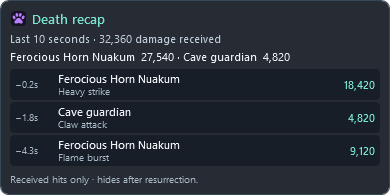
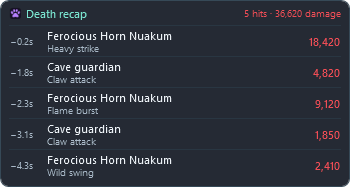
Compact death recap to five hits with red damage and upper-center placement

diff --git a/src/AionMeter.App/Windows/DeathRecapWindow.xaml b/src/AionMeter.App/Windows/DeathRecapWindow.xaml
@@ -1,24 +1,24 @@
 <Window x:Class="AionMeter.App.Windows.DeathRecapWindow" xmlns="http://schemas.microsoft.com/winfx/2006/xaml/presentation" xmlns:x="http://schemas.microsoft.com/winfx/2006/xaml"
-        Width="390" MinWidth="260" SizeToContent="Height" MaxHeight="420" WindowStyle="None" ResizeMode="CanResizeWithGrip" ShowInTaskbar="False" ShowActivated="False" Topmost="True"
+        Width="350" MinWidth="260" SizeToContent="Height" WindowStyle="None" ResizeMode="NoResize" ShowInTaskbar="False" ShowActivated="False" Topmost="True"
         Background="Transparent" Foreground="#EDF2F7" FontFamily="{StaticResource UiFont}" UseLayoutRounding="True" TextOptions.TextFormattingMode="Display">
     <Window.Resources><ResourceDictionary><ResourceDictionary.MergedDictionaries><ResourceDictionary Source="../Theme/MeterTools.xaml"/></ResourceDictionary.MergedDictionaries></ResourceDictionary></Window.Resources>
-    <Border x:Name="Shell" Background="#F01B2027" BorderBrush="#364957" BorderThickness="1" CornerRadius="8" Padding="9">
+    <Border x:Name="Shell" Background="#F0171E27" BorderBrush="#364957" BorderThickness="1" CornerRadius="8" Padding="8,6">
         <StackPanel>
-            <DockPanel Margin="0,0,0,5"><Image x:Name="Paw" Width="16" Height="16" Margin="0,0,6,0"/><TextBlock x:Name="Heading" Foreground="#79E3CF" FontWeight="SemiBold" FontSize="13"/></DockPanel>
-            <TextBlock x:Name="Summary" Foreground="#BCC9D6" FontSize="11" TextWrapping="Wrap" Margin="0,0,0,5"/>
-            <TextBlock x:Name="Sources" Foreground="#EDF2F7" FontSize="11" MaxHeight="42" TextWrapping="Wrap" TextTrimming="CharacterEllipsis" Margin="0,0,0,5" ToolTip="{Binding Text, RelativeSource={RelativeSource Self}}"/>
-            <ScrollViewer MaxHeight="220" VerticalScrollBarVisibility="Auto" HorizontalScrollBarVisibility="Disabled" Focusable="False">
+            <Grid Margin="0,0,0,5">
+                <Grid.ColumnDefinitions><ColumnDefinition Width="Auto"/><ColumnDefinition Width="*"/></Grid.ColumnDefinitions>
+                <StackPanel Orientation="Horizontal"><Image x:Name="Paw" Width="12" Height="12" Margin="0,0,5,0"/><TextBlock x:Name="Heading" Foreground="#79E3CF" FontWeight="SemiBold" FontSize="11"/></StackPanel>
+                <TextBlock x:Name="Summary" Grid.Column="1" Foreground="{StaticResource Red}" FontSize="10" VerticalAlignment="Center" TextAlignment="Right" TextTrimming="CharacterEllipsis" ToolTip="{Binding Text, RelativeSource={RelativeSource Self}}" Margin="8,0,0,0"/>
+            </Grid>
                 <ItemsControl x:Name="Hits"><ItemsControl.ItemTemplate><DataTemplate>
-                    <Border Background="#171E27" CornerRadius="4" Padding="5,3" Margin="0,1">
-                        <Grid><Grid.ColumnDefinitions><ColumnDefinition Width="40"/><ColumnDefinition Width="*"/><ColumnDefinition Width="Auto"/></Grid.ColumnDefinitions>
-                            <TextBlock Text="{Binding Time}" Foreground="#A9B8C7" FontSize="10" VerticalAlignment="Center"/>
-                            <StackPanel Grid.Column="1" Margin="3,0,6,0"><TextBlock Text="{Binding Enemy}" FontSize="11" FontWeight="SemiBold" TextTrimming="CharacterEllipsis" ToolTip="{Binding Enemy}"/><TextBlock Text="{Binding Skill}" Foreground="#A9B8C7" FontSize="10" TextTrimming="CharacterEllipsis" ToolTip="{Binding Skill}"/></StackPanel>
-                            <TextBlock Grid.Column="2" Text="{Binding Damage}" Foreground="#79E3CF" FontWeight="SemiBold" FontSize="11" VerticalAlignment="Center" ToolTip="{Binding Details}"/>
+                    <Border BorderBrush="#293642" BorderThickness="0,1,0,0" Padding="1,3,1,2">
+                        <Grid><Grid.ColumnDefinitions><ColumnDefinition Width="34"/><ColumnDefinition Width="*"/><ColumnDefinition Width="Auto"/></Grid.ColumnDefinitions>
+                            <TextBlock Text="{Binding Time}" Foreground="#A9B8C7" FontSize="9.5" VerticalAlignment="Center"/>
+                            <StackPanel Grid.Column="1" Margin="3,0,8,0"><TextBlock Text="{Binding Enemy}" FontSize="11" TextTrimming="CharacterEllipsis" ToolTip="{Binding Enemy}"/><TextBlock Text="{Binding Skill}" Foreground="#A9B8C7" FontSize="10" TextTrimming="CharacterEllipsis" ToolTip="{Binding Skill}"/></StackPanel>
+                            <TextBlock Grid.Column="2" Text="{Binding Damage}" Foreground="{StaticResource Red}" FontWeight="SemiBold" FontSize="11" VerticalAlignment="Center" ToolTip="{Binding Details}"/>
                         </Grid>
                     </Border>
                 </DataTemplate></ItemsControl.ItemTemplate></ItemsControl>
-            </ScrollViewer>
-            <TextBlock x:Name="Hint" FontSize="10" Foreground="#A9B8C7" TextWrapping="Wrap" Margin="0,6,0,0"/>
+            <TextBlock x:Name="Hint" FontSize="10" Foreground="#A9B8C7" TextWrapping="Wrap" Margin="0,4,0,0" Visibility="Collapsed"/>
         </StackPanel>
     </Border>
 </Window>

diff --git a/src/AionMeter.App/Windows/DeathRecapWindow.xaml.cs b/src/AionMeter.App/Windows/DeathRecapWindow.xaml.cs
@@ -1,5 +1,6 @@
 using System.Windows;
 using System.Windows.Media;
+using System.Windows.Interop;
 using AionMeter.App.Services;
 using AionMeter.Core.Combat;
 
@@ -8,6 +9,25 @@ namespace AionMeter.App.Windows;
 public partial class DeathRecapWindow : Window, IDisplayAppearance
 {
     internal sealed record HitRow(string Time, string Enemy, string Skill, string Damage, string Details);
+    internal const int VisibleHits = 5;
+    internal static Point DefaultPosition(Rect screen, Size panel) => new(
+        screen.Left + Math.Max(0,(screen.Width-panel.Width)/2),
+        Math.Clamp(screen.Top+screen.Height*.36-panel.Height,screen.Top+8,Math.Max(screen.Top+8,screen.Bottom-panel.Height-8)));
+
+    internal void PlaceAboveCenter(Window anchor)
+    {
+        var screen=System.Windows.Forms.Screen.FromHandle(new WindowInteropHelper(anchor).Handle);
+        WindowStartupLocation=WindowStartupLocation.Manual;
+        Left=anchor.Left; Top=anchor.Top;
+        Loaded+=(_,_)=>
+        {
+            UpdateLayout();
+            var matrix=PresentationSource.FromVisual(this)?.CompositionTarget?.TransformFromDevice ?? Matrix.Identity;
+            var area=new Rect(matrix.Transform(new Point(screen.Bounds.Left,screen.Bounds.Top)),matrix.Transform(new Point(screen.Bounds.Right,screen.Bounds.Bottom)));
+            var point=DefaultPosition(area,new Size(ActualWidth,ActualHeight));
+            Left=point.X; Top=point.Y;
+        };
+    }
     public DeathRecapWindow(DeathRecapSnapshot recap)
     {
         InitializeComponent(); AppIcon.Apply(this); Paw.Source = Icon;
@@ -18,19 +38,19 @@ public partial class DeathRecapWindow : Window, IDisplayAppearance
     {
         var t = UiText.Current;
         Title = "CatScratch · " + t.Localize("Death recap"); Heading.Text = t.Localize("Death recap");
+        Heading.ToolTip=t.Localize("Latest received hits · newest first · hides after resurrection.");
+        var hits=recap.Hits.OrderByDescending(h=>h.TimeMs).Take(VisibleHits).ToArray();
         string Enemy(DeathRecapHit h) => h.IsPlayer ? StreamNames.Name(h.SourceName) : h.SourceName;
-        Summary.Text = string.Format(t.Culture, t.Localize("Last {0} seconds · {1:N0} damage received"),
-            CombatTracker.DeathRecapSeconds, recap.Hits.Sum(h => (decimal)h.Damage));
-        Sources.Text = string.Join(" · ", recap.Hits.GroupBy(h => h.SourceId).OrderByDescending(g => g.Sum(h => (decimal)h.Damage))
-            .Select(g => Enemy(g.First()) + "  " + g.Sum(h => (decimal)h.Damage).ToString("N0", t.Culture)));
-        Hits.ItemsSource = recap.Hits.Select(h => new HitRow("−" + ((recap.DiedAtMs - h.TimeMs) / 1000d).ToString("0.0", t.Culture) + "s",
+        Summary.Text = string.Format(t.Culture, t.Localize("{0} hits · {1:N0} damage"), hits.Length,hits.Sum(h=>(decimal)h.Damage));
+        Hits.ItemsSource = hits.Select(h => new HitRow("−" + ((recap.DiedAtMs - h.TimeMs) / 1000d).ToString("0.0", t.Culture) + "s",
             Enemy(h), h.SkillName, h.Damage.ToString("N0", t.Culture), h.HitCount > 1 ? "×" + h.HitCount : h.Damage.ToString("N0", t.Culture))).ToArray();
-        Hint.Text = t.Localize(recap.Hits.Count == 0 ? "No incoming damage received before this death." :
-            recap.Truncated ? "High traffic: some hits are missing." : "Received hits only · hides after resurrection.");
+        Hint.Text = t.Localize(hits.Length == 0 ? "No incoming damage received before this death." : "High traffic: some hits are missing.");
+        Hint.Visibility=hits.Length==0 || recap.Truncated ? Visibility.Visible : Visibility.Collapsed;
     }
     public void SetDisplayOnly(bool enabled)
     {
-        Shell.Background = enabled ? Brushes.Transparent : (Brush)new BrushConverter().ConvertFromString("#F01B2027")!;
+        // Keep text readable over the game even when the module passes mouse clicks through.
+        Shell.Background = (Brush)new BrushConverter().ConvertFromString("#F0171E27")!;
         Shell.BorderThickness = new(enabled ? 0 : 1);
     }
 }

diff --git a/src/AionMeter.App/Services/Beta4Checks.cs b/src/AionMeter.App/Services/Beta4Checks.cs
@@ -75,15 +75,29 @@ internal static class Beta4Checks
             foreach (var code in new[] { "en", "de", "ru", "fr" })
             {
                 UiText.Use(code); StreamNames.Enabled = true;
-                var recap = new DeathRecapWindow(new(5000, [new(4000, 2, "Private attacker", true, 1, "Attack", 12345, HitFlags.None, 1)], false));
+                var recap = new DeathRecapWindow(new(5000, Enumerable.Range(0,8).Select(i=>
+                    new DeathRecapHit(4900-i*200,(uint)i+2,"Private attacker "+i,true,1,"Attack",1000+i,HitFlags.None,1)).Reverse().ToArray(), false));
                 try
                 {
                     recap.UpdateLayout();
                     var rows = ((ItemsControl)recap.FindName("Hits")).Items.Cast<DeathRecapWindow.HitRow>().ToArray();
-                    Check(rows.Length == 1 && !rows[0].Enemy.Contains("Private") && ((TextBlock)recap.FindName("Summary")).Text.Contains("10"), "Death recap shows ten-second details with stream aliases: " + code);
-                    Check(!((TextBlock)recap.FindName("Sources")).Text.Contains("Private"), "Attacker totals preserve stream aliases: " + code);
+                    Check(rows.Length == 5 && rows.All(r=>!r.Enemy.Contains("Private")) && rows[0].Damage==1000.ToString("N0",UiText.Current.Culture) && rows[^1].Damage==1004.ToString("N0",UiText.Current.Culture),
+                        "Death recap shows only the five latest hits in newest-first order with stream aliases: " + code);
+                    Check(((TextBlock)recap.FindName("Summary")).Text==string.Format(UiText.Current.Culture,UiText.Current.Localize("{0} hits · {1:N0} damage"),5,5010),
+                        "Death recap summary totals only its five displayed hits: " + code);
+                    Check(recap.ResizeMode==ResizeMode.NoResize && ((TextBlock)recap.FindName("Hint")).Visibility==Visibility.Collapsed,
+                        "Compact recap removes the resize grip and routine footer: " + code);
+                    recap.SetDisplayOnly(true);
+                    Check(((Border)recap.FindName("Shell")).Background is System.Windows.Media.SolidColorBrush brush && brush.Color.A>0,
+                        "Click-through recap keeps a readable dark surface: "+code);
                 }
                 finally { recap.Close(); }
+            }
+            foreach(var area in new[]{new Rect(0,0,1920,1080),new Rect(-1920,0,1920,1080),new Rect(1920,-1440,2560,1440),new Rect(0,0,1280,720)})
+            {
+                var position=DeathRecapWindow.DefaultPosition(area,new Size(350,180));
+                Check(Math.Abs(position.X+175-(area.Left+area.Width/2))<.1 && position.Y>=area.Top && position.Y+180<=area.Top+area.Height*.4,
+                    "Death recap defaults to upper center above resurrection controls on screen "+area);
             }
             var actual = meter.Updates.CurrentIdentity;
             // The real local executable is the offered payload; a synthetic older installed identity makes it an update.

diff --git a/src/AionMeter.App/Services/UiText.MoreLanguages.cs b/src/AionMeter.App/Services/UiText.MoreLanguages.cs
@@ -5,6 +5,8 @@ public sealed partial class UiText
     // Exact literals, not substitutions in player names, paths or protocol identifiers.
     private static readonly (string English,string Russian,string French)[] AdditionalTranslations =
     [
+        ("{0} hits · {1:N0} damage","Удары: {0} · Урон: {1:N0}","{0} coups · {1:N0} dégâts"),
+        ("Latest received hits · newest first · hides after resurrection.","Последние полученные удары · сначала новые · исчезает после воскрешения.","Derniers coups reçus · plus récent en premier · disparaît après résurrection."),
         ("Open captures folder","Открыть папку записей","Ouvrir le dossier des captures"),
         ("AION 2 companion","Вместе с AION 2","Compagnon AION 2"),
         ("Start and close CatScratch with AION 2","Запускать и закрывать CatScratch вместе с AION 2","Démarrer et fermer CatScratch avec AION 2"),

diff --git a/src/AionMeter.App/Services/SampleRenderer.cs b/src/AionMeter.App/Services/SampleRenderer.cs
@@ -185,7 +185,10 @@ public static class SampleRenderer
                 var recap = new DeathRecapWindow(new(died, [
                     new(died - 150, 100, "Ferocious Horn Nuakum", false, 1, "Heavy strike", 18420, HitFlags.Critical, 1),
                     new(died - 1800, 101, "Cave guardian", false, 2, "Claw attack", 4820, HitFlags.None, 1),
-                    new(died - 4300, 100, "Ferocious Horn Nuakum", false, 3, "Flame burst", 9120, HitFlags.Dot, 3)
+                    new(died - 2300, 100, "Ferocious Horn Nuakum", false, 3, "Flame burst", 9120, HitFlags.Dot, 3),
+                    new(died - 3100, 101, "Cave guardian", false, 2, "Claw attack", 1850, HitFlags.None, 1),
+                    new(died - 4300, 100, "Ferocious Horn Nuakum", false, 4, "Wild swing", 2410, HitFlags.None, 1),
+                    new(died - 7000, 101, "Cave guardian", false, 2, "Claw attack", 950, HitFlags.None, 1)
                 ], false));
                 host = recap;
                 refresh = () => { };

diff --git a/src/AionMeter.App/Services/WindowPresentation.cs b/src/AionMeter.App/Services/WindowPresentation.cs
@@ -61,7 +61,7 @@ internal static class WindowPresentation
     }
     private static readonly HashSet<Window> Adjusting=[];
     private static System.Drawing.Rectangle Area(Window window,System.Windows.Forms.Screen screen) =>
-        window is AionMeter.App.Windows.OverlayWindow or AionMeter.App.Windows.TimerHubWindow or AionMeter.App.Windows.PetTrackerWindow or AionMeter.App.Windows.TimerCardWindow or AionMeter.App.Windows.BossTimersWindow ? screen.Bounds : screen.WorkingArea;
+        window is AionMeter.App.Windows.OverlayWindow or AionMeter.App.Windows.TimerHubWindow or AionMeter.App.Windows.PetTrackerWindow or AionMeter.App.Windows.TimerCardWindow or AionMeter.App.Windows.BossTimersWindow or AionMeter.App.Windows.DeathRecapWindow ? screen.Bounds : screen.WorkingArea;
     public static void Constrain(Window window)
     {
         if(!Enabled || !window.IsLoaded || NativeDragging.Contains(window) || window.WindowState!=WindowState.Normal || !Adjusting.Add(window))return;

diff --git a/src/AionMeter.App/App.xaml.cs b/src/AionMeter.App/App.xaml.cs
@@ -465,10 +465,8 @@ public partial class App : Application
         _deathRecapStamp = stamp; _deathRecapAppearance = appearance;
         if (_deathRecapWindow is not null) { _deathRecapWindow.Reload(recap); return; }
         var window = _deathRecapWindow = new DeathRecapWindow(recap);
-        var area = SystemParameters.WorkArea;
-        window.Left = Math.Clamp(_overlay.Left + _overlay.Width + 8, area.Left, Math.Max(area.Left, area.Right - window.Width));
-        window.Top = Math.Clamp(_overlay.Top, area.Top, Math.Max(area.Top, area.Bottom - 420));
         WindowClickThrough.Attach(window, () => _meter.Settings.ClickThrough, () => _meter.Settings.WindowOpacity);
+        window.PlaceAboveCenter(_overlay);
         window.Closed += (_, _) => { if (_deathRecapWindow == window) _deathRecapWindow = null; };
         window.Show(); _windowVisibility.Track(window);
     }

diff --git a/src/AionMeter.App/Services/UiText.Extra.cs b/src/AionMeter.App/Services/UiText.Extra.cs
@@ -35,6 +35,8 @@ public sealed partial class UiText
     }
     private static readonly Dictionary<string,string> ExtraGerman = new(StringComparer.Ordinal)
     {
+        ["{0} hits · {1:N0} damage"]="{0} Treffer · {1:N0} Schaden",
+        ["Latest received hits · newest first · hides after resurrection."]="Letzte erhaltene Treffer · neuester zuerst · schließt nach Wiederbelebung.",
         ["Open captures folder"]="Aufnahmeordner öffnen",
         ["AION 2 companion"]="AION 2 begleiten",
         ["Start and close CatScratch with AION 2"]="CatScratch mit AION 2 starten und beenden",

diff --git a/README.md b/README.md
@@ -2,12 +2,12 @@
 
 A separate, always-on-top Windows DPS meter for **AION 2**, by Zerafithekitten. Track your own fights and confirmed party members in a compact dark interface with turquoise accents and purple paw branding.
 
-[Download Stable](https://github.com/Zerafithekitten/CatScratch/releases/latest) · [Download Beta](https://github.com/Zerafithekitten/CatScratch/releases/tag/v2.5.6-beta.6) · [Release history](https://github.com/Zerafithekitten/CatScratch/releases) · [Report a bug / request a feature](https://github.com/Zerafithekitten/CatScratch/issues/new/choose)
+[Download Stable](https://github.com/Zerafithekitten/CatScratch/releases/latest) · [Download Beta](https://github.com/Zerafithekitten/CatScratch/releases/tag/v2.5.6-beta.7) · [Release history](https://github.com/Zerafithekitten/CatScratch/releases) · [Report a bug / request a feature](https://github.com/Zerafithekitten/CatScratch/issues/new/choose)
 
 | Channel | Current version | What it includes |
 | --- | --- | --- |
 | **Stable** | **[v2.5.5](https://github.com/Zerafithekitten/CatScratch/releases/tag/v2.5.5)** | Boss personal bests, recent teammates, death recap, background updates, separate Started events, improved group-search handling and ten patchnotes tabs on the left. |
-| **Beta** | **[v2.5.6-beta.6](https://github.com/Zerafithekitten/CatScratch/releases/tag/v2.5.6-beta.6)** | Everything in Stable, plus optional quiet automatic start/close with AION 2, a five-member roster repair and a capture-folder shortcut. |
+| **Beta** | **[v2.5.6-beta.7](https://github.com/Zerafithekitten/CatScratch/releases/tag/v2.5.6-beta.7)** | Everything in Stable, plus optional quiet automatic start/close with AION 2, a five-member roster repair, a capture-folder shortcut and a compact five-hit death recap. |
 
 English is the default. German, Russian and French are also available. Screenshots use synthetic sample data; names and numbers are examples. Event-module previews show **v2.5.4-beta.4**.
 
@@ -108,7 +108,7 @@ Unknown CP/GS remain dashes until usable values arrive; missing values do not er
 
 ## Death recap
 
-The **tombstone icon** enables or disables the module. When your character dies, a compact recap shows received damage from the previous **ten seconds**: attackers, skills, hit amounts, time before death and attacker totals.
+The **tombstone icon** enables or disables the module. When your character dies, a compact recap shows received damage from the previous **ten seconds**: attackers, skills, hit amounts, time before death and attacker totals. **The current Beta** simplifies this to the five latest hits, newest first, with red damage values and their total. It opens centered in the upper half of the meter screen, above the standard resurrection controls, and remains movable.
 
 <img src="docs/screenshots/death-recap.png" alt="Death recap listing recent attackers, skills and incoming damage" width="400" />
 
@@ -244,7 +244,7 @@ This keeps the watcher separate from the program files that an update replaces, 
 - The watcher does not capture game traffic, download updates, upload files, read chat or ask for account credentials. Network capture and normal update checks belong to the meter after it starts.
 - The task runs for the signed-in user with the highest available privileges, matching CatScratch's existing administrator requirement. It does not create a SYSTEM service or store your Windows password.
 - The shipped local script uses `-ExecutionPolicy Bypass` for its own PowerShell process. CatScratch does not change the machine-wide PowerShell execution policy. Managed Windows restrictions may still prevent it from running; failed setup is reported rather than silently enabling the option.
-- Scripts and configuration are kept locally in `userdata/game-start`. You can inspect the [watcher source](https://github.com/Zerafithekitten/CatScratch/blob/v2.5.6-beta.6/src/AionMeter.App/Services/GameLifetime.cs) and [windowless launcher source](https://github.com/Zerafithekitten/CatScratch/blob/v2.5.6-beta.6/src/AionMeter.App/Launcher/GameWatcherLauncher.cs).
+- Scripts and configuration are kept locally in `userdata/game-start`. You can inspect the [watcher source](https://github.com/Zerafithekitten/CatScratch/blob/v2.5.6-beta.7/src/AionMeter.App/Services/GameLifetime.cs) and [windowless launcher source](https://github.com/Zerafithekitten/CatScratch/blob/v2.5.6-beta.7/src/AionMeter.App/Launcher/GameWatcherLauncher.cs).
 
 ### Why no PowerShell window should appear
 

diff --git a/AGENTS.md b/AGENTS.md
@@ -18,6 +18,8 @@ Display modules must not create separate taskbar previews or Alt-Tab entries. Ke
 
 ## Releases
 
+Death recap shows only the five latest received hits, newest first, with red damage values. Keep its compact dark CatScratch panel centered in the upper half of the meter screen by default, above standard resurrection controls. Preserve dragging and automatic hiding after confirmed revival.
+
 Follow RELEASE-POLICY.md. Beta branch uploads and prereleases are authorized without further confirmation. Stable publication requires explicit owner approval. Beta release notes are brief; Stable notes are detailed. Add release notes for a publication, not for every intermediate change.
 
 Started events belong exclusively to the separate movable Started events module. Normal events show Open! and a remaining 3-minute countdown; Spacetime Rift uses 10 minutes; bosses show Spawned for 2 minutes without a countdown. Persist the module placement/open state independently from Upcoming events.

diff --git a/data/patchnotes-en.md b/data/patchnotes-en.md
@@ -1,3 +1,10 @@
+## CatScratch v2.5.6-beta.7
+
+### Compact death recap
+- Shows only the five most recent received hits, newest first, with red damage values and a matching five-hit total.
+- Cleaner CatScratch layout without duplicate attacker totals, scrollbar or resize grip; the dark surface stays readable in click-through mode.
+- Opens centered in the upper half of the meter screen, above the standard resurrection controls. Dragging and automatic hiding after resurrection remain available.
+
 ## CatScratch v2.5.6-beta.6
 
 ### Group recognition, live statistics and debug convenience
